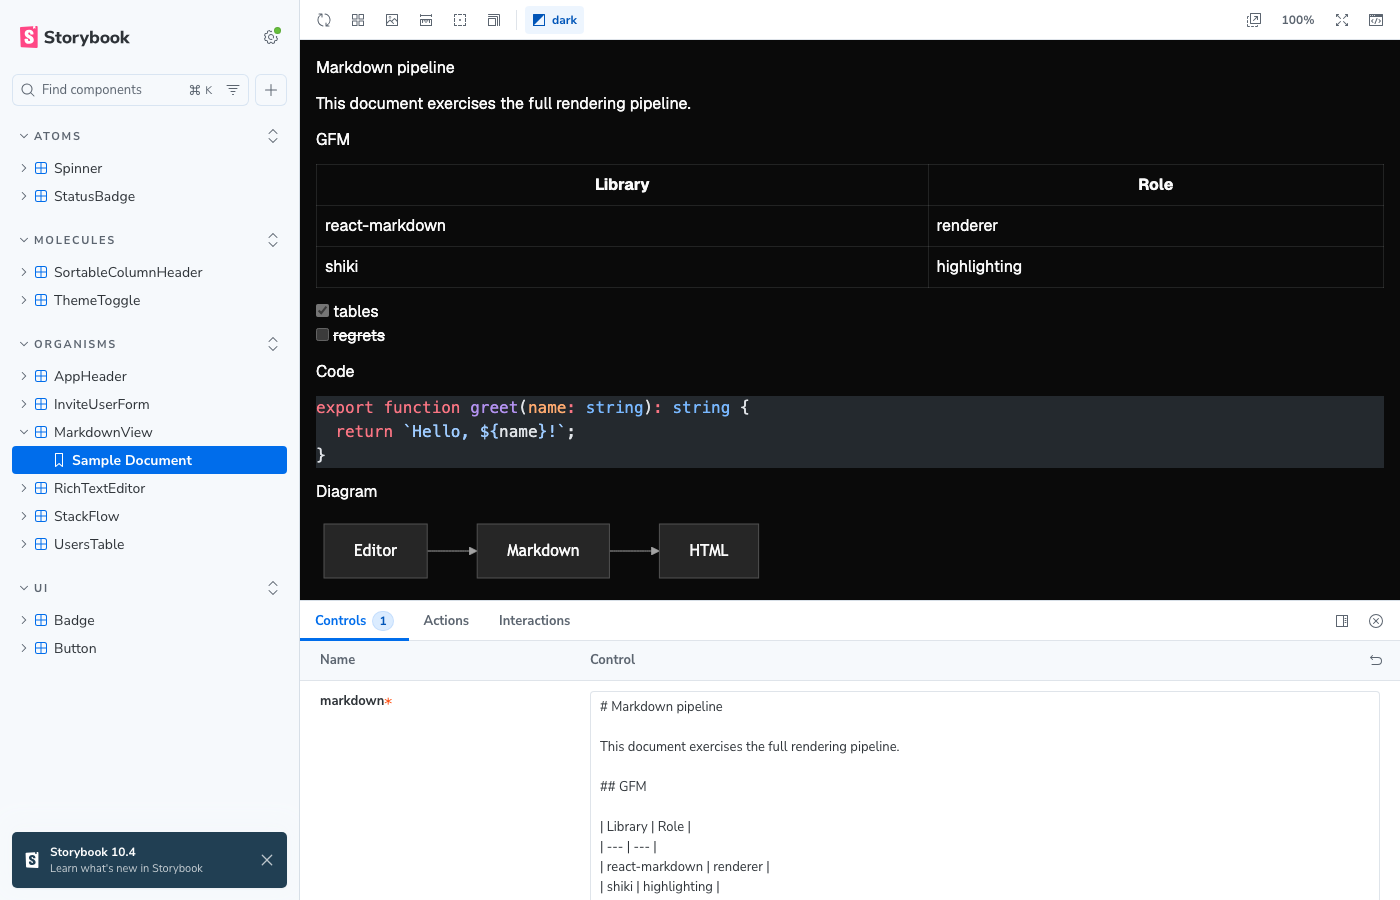
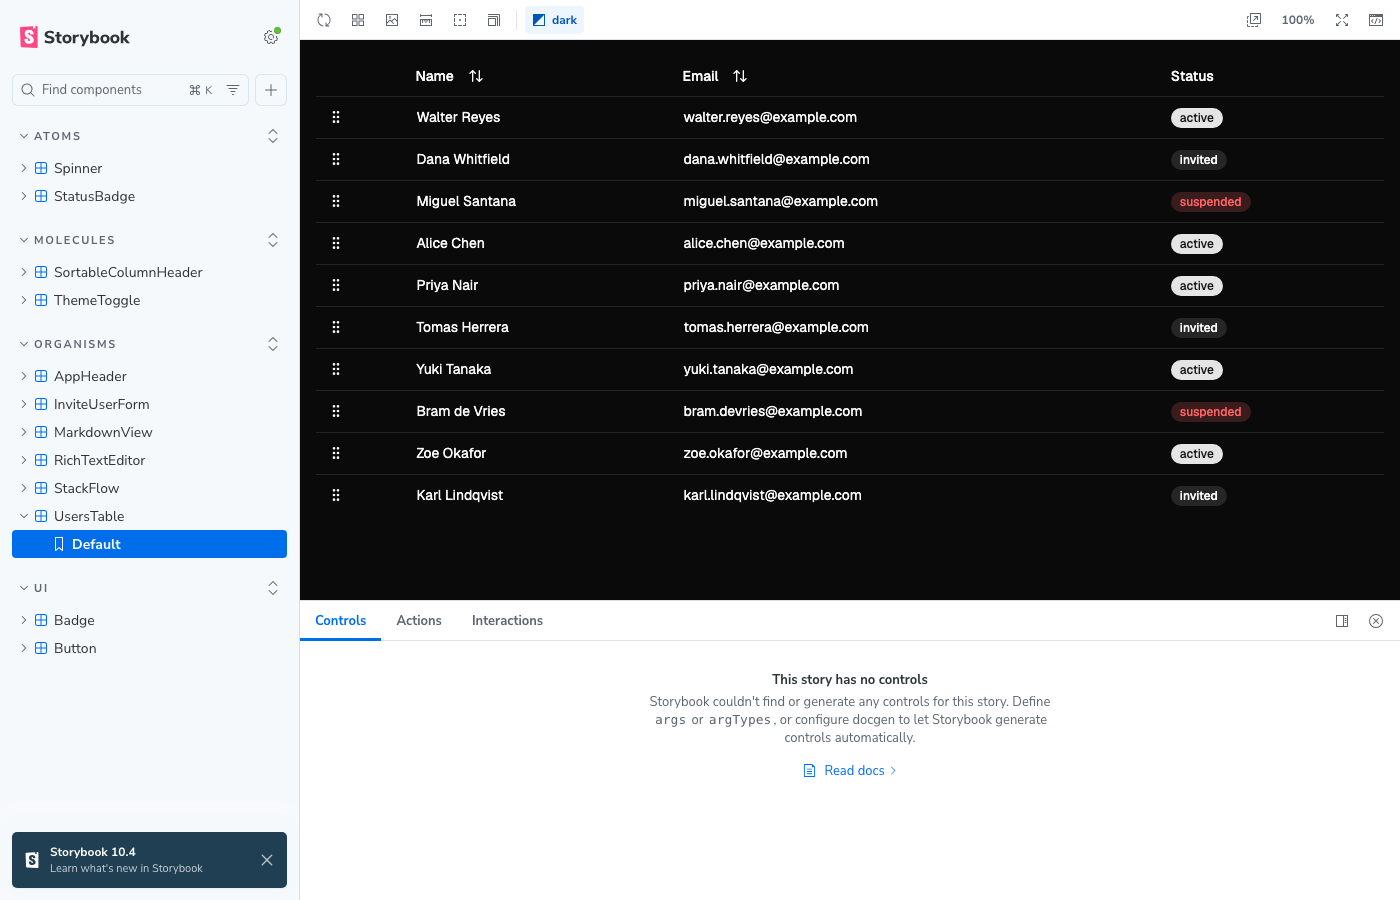
docs: retake dark Storybook screenshot with the UsersTable story

diff --git a/docs/screenshots/README.md b/docs/screenshots/README.md
@@ -8,7 +8,7 @@ The component workshop: full atomic-design sidebar taxonomy, with the `UsersTabl
 
 ![Storybook](storybook.png)
 
-The theme toolbar set to dark on the `MarkdownView` story — shiki and mermaid both follow the preview's `dark` class (the manager chrome is Storybook's own and stays light).
+The theme toolbar set to dark on the `UsersTable` story — MSW-fed rows, drag handles, and badge variants all following the preview's `dark` class (the manager chrome is Storybook's own and stays light).
 
 ![Storybook, dark](storybook-dark.png)
 
